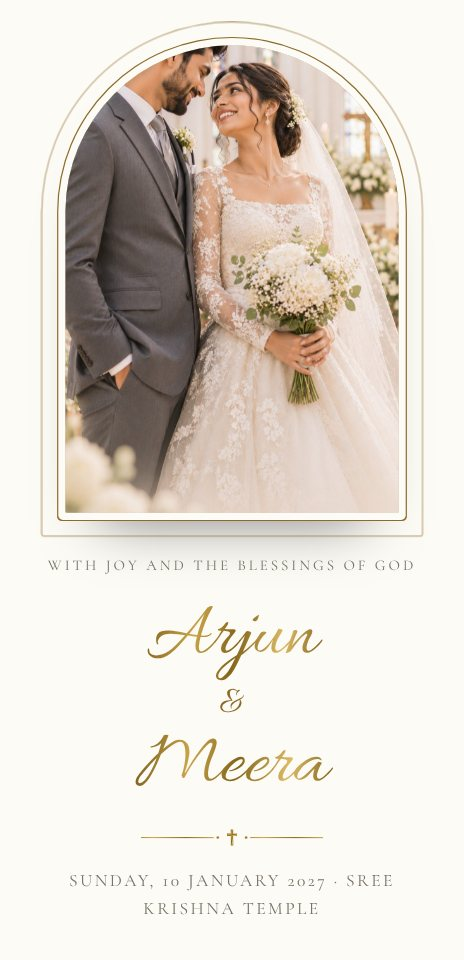
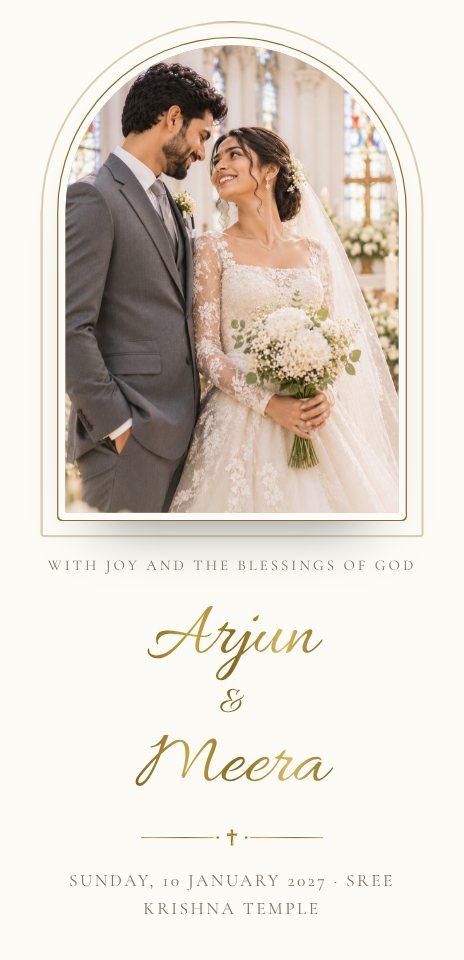
Cover photos never trim the top or sides, so faces always show (polaroid, full screen, Lumière, Vogue, Bloom)
Claude-Session: https://claude.ai/code/session_01HTLJ5qXdA6w9sojxHduBi6

Changed region(s): [[0.1207, 0.0312, 0.875, 0.5312], [0.5431, 0.5, 0.5733, 0.5312]]

diff --git a/assets/invite.css b/assets/invite.css
@@ -1215,3 +1215,12 @@
 @keyframes wlFizz { from { transform: translateY(0); } to { transform: translateY(-40%); } }
 .wl-op-fizz .wl-op-bg { box-shadow: inset 0 0 0 14px rgba(255,255,255,.5), inset 0 0 0 15px rgba(201,162,74,.5); }
 .wl-op-fizz.open .wl-op-bg, .wl-op-fizz.open .wl-op-art { transform: translateY(-104%); transition: transform 1.3s cubic-bezier(.7,0,.25,1); }
+/* faces live in the top part of every couple photo: covers only ever trim the bottom, never the top */
+.wl-cv .wl-slides img, .wl-pl-img .wl-slides img, .wl-pl-img img, .wl-film img { object-position: 50% 0% !important; }
+.wl-cv-polaroid .wl-cv-frame { top: 24px !important; }
+.wl-cv-polaroid .wl-slides { margin-top: 10px; }
+/* Lumiere and Vogue: the first screen keeps the photo's own shape, so no one is trimmed at the sides */
+.wl[data-theme=lumiere] .wl-pl, .wl[data-theme=vogue] .wl-pl { height: auto !important; min-height: 0 !important; aspect-ratio: 9 / 16; }
+/* Bloom: the arch window is never taller than the photo */
+.wl[data-theme=bloom] .wl-pl-img { height: auto !important; min-height: 0 !important; aspect-ratio: 9 / 15; }
+.wl[data-theme=bloom] .wl-pl-img .wl-slides { bottom: 0 !important; }
